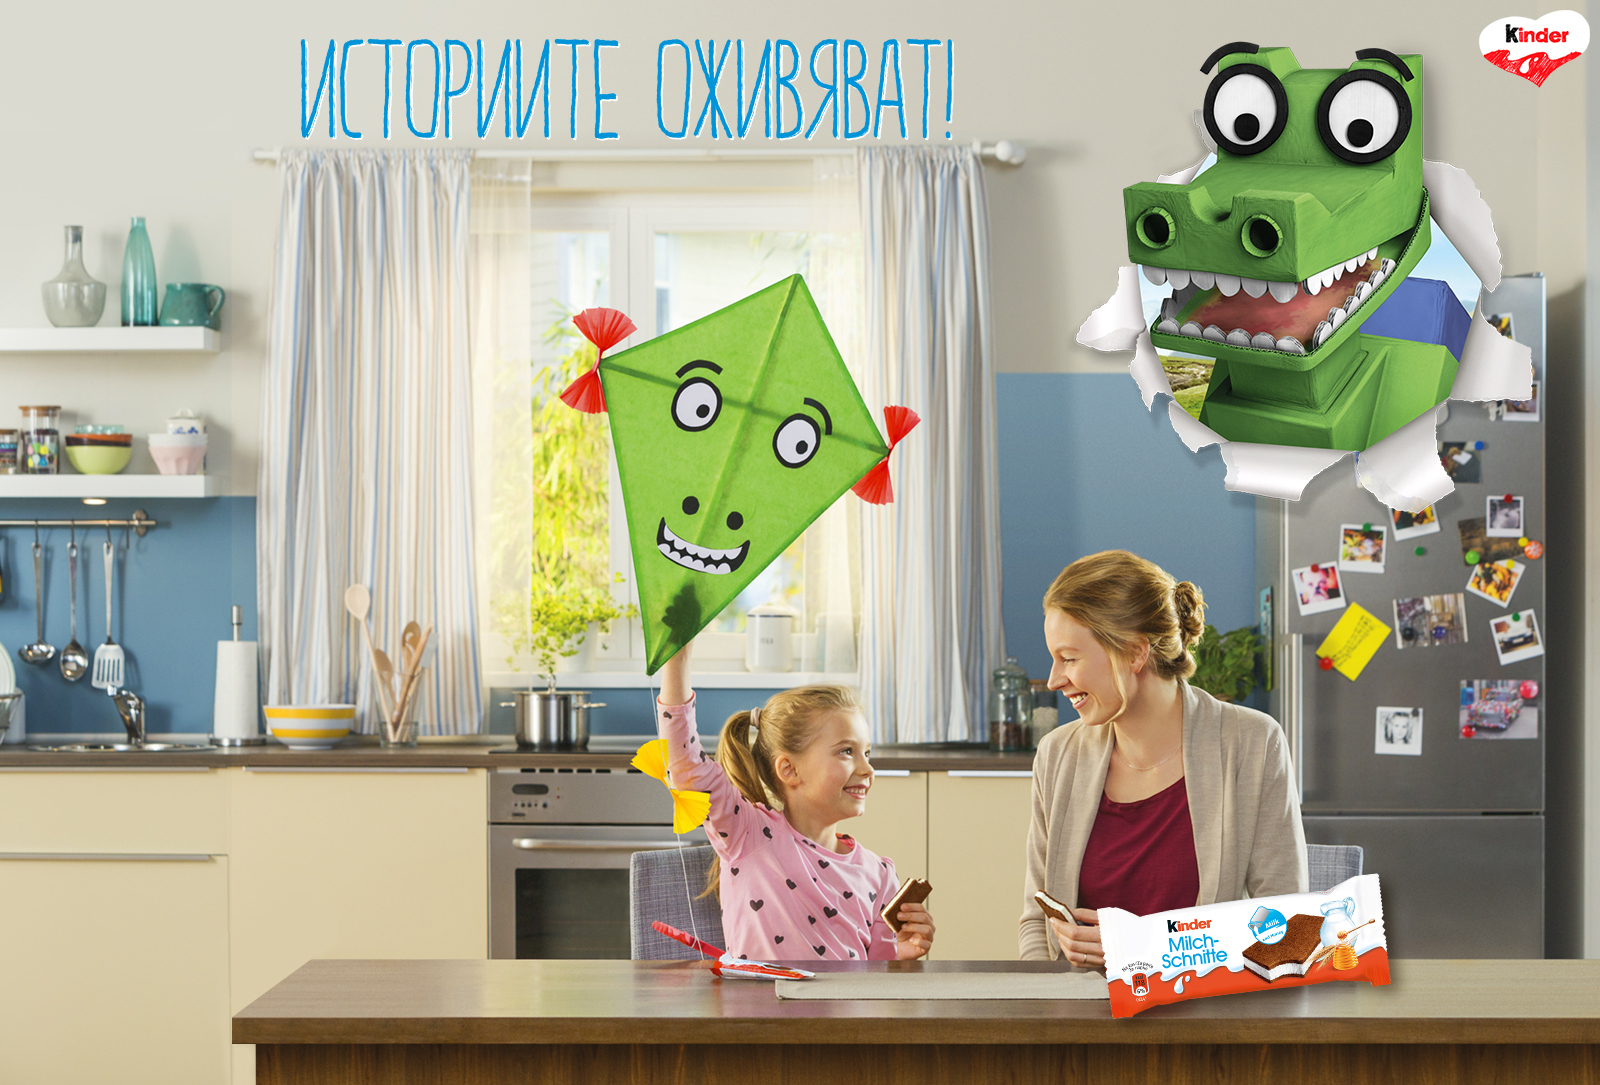
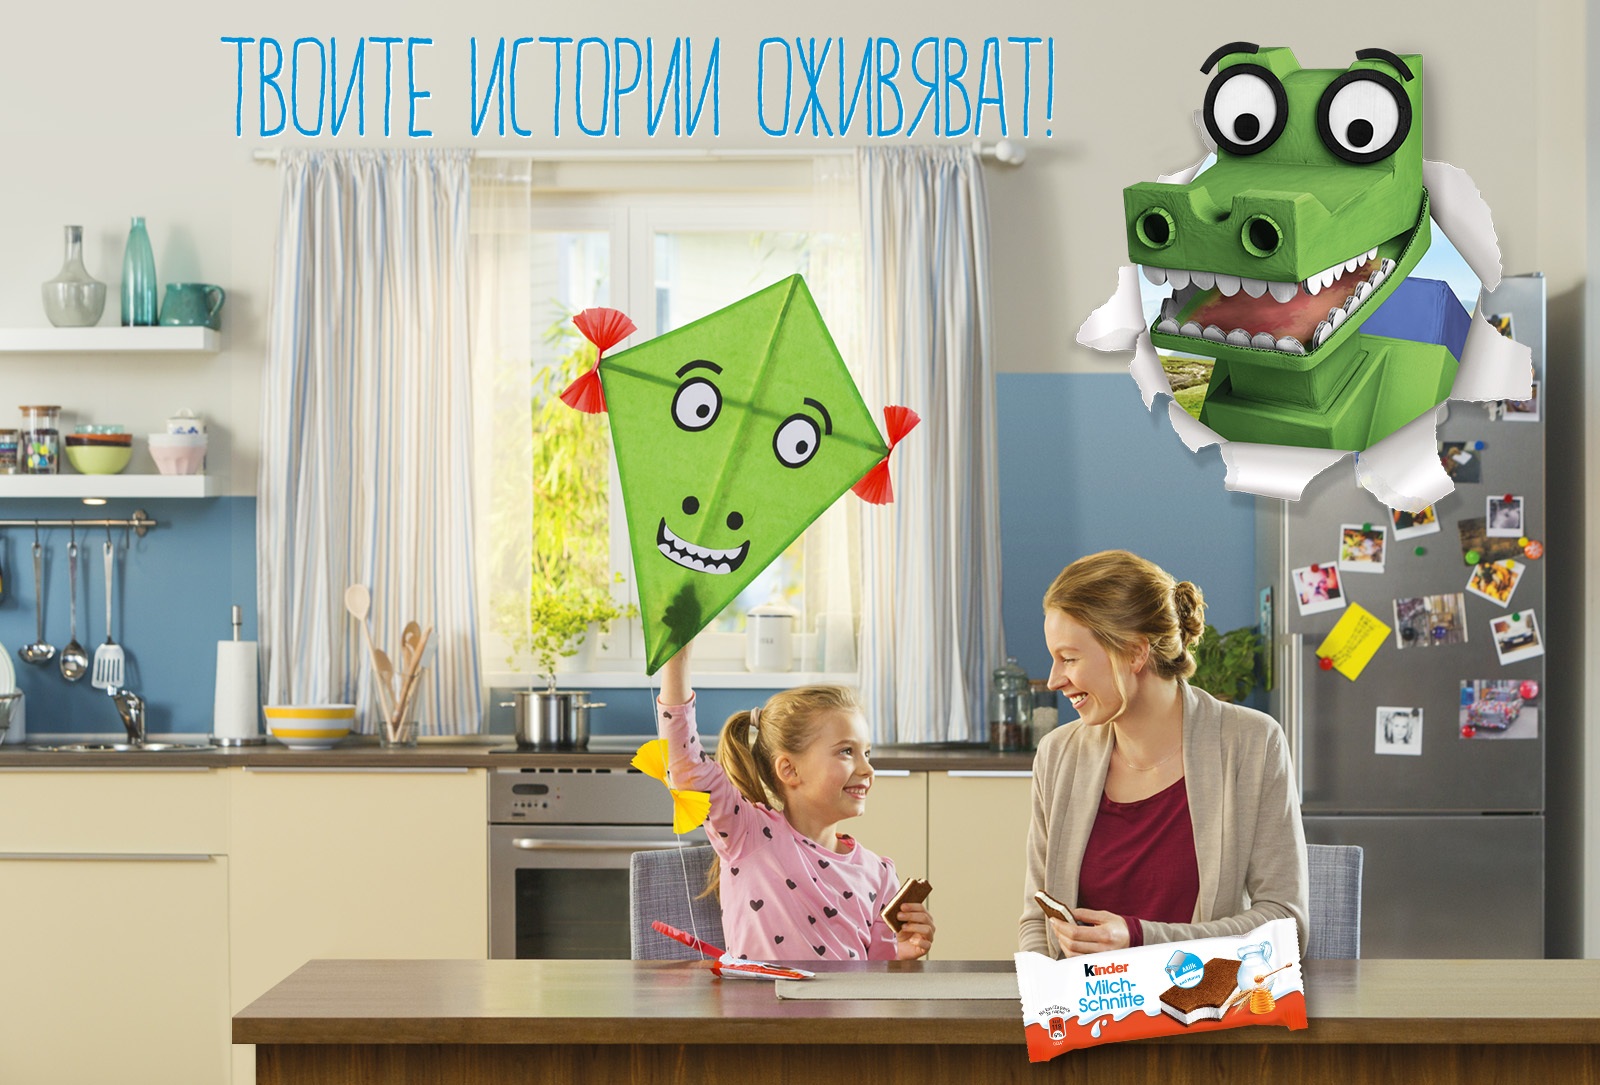
Updated index page view

Changed region(s): [[0.125, 0.0304, 0.6562, 0.1521], [0.625, 0.7908, 0.875, 0.9733], [0.9062, 0.0, 1.0, 0.0912]]

diff --git a/KinderFirst/Content/Site.css b/KinderFirst/Content/Site.css
@@ -118,13 +118,24 @@ ul.nav li.dropdown:hover > ul.dropdown-menu {
     display: none;
 }
 
+.index-heading {
+    position: relative;
+    font-family: "A.C.M.E Bold";
+    color: #e74010;
+    text-align: center;
+    z-index: 100;
+}
+
 .index-body-btns {
     position: absolute;
+    display: table;
+    text-align: center;
     height: 75%;
     width: 27%;
     bottom: 0%;
     margin: 5%;
     z-index: 100;
+    vertical-align: middle;
 }
 
 .index-body-white-box {
@@ -137,17 +148,13 @@ ul.nav li.dropdown:hover > ul.dropdown-menu {
 }
 
 .index-btn-play-now {
-    font-family: "A.C.M.E";
+    position: relative;
+    font-family: "A.C.M.E Bold";
     font-size: 30px;
     color: white;
     background-color: #e74010;
-    position: absolute;
-    width: 60%;
-    top: 20%;
-    left: 0;
-    right: 0;
-    margin-left: auto;
-    margin-right: auto;
+    padding: 16px;
+    margin: 2%;
     border-radius: 15px;
     z-index: 100;
 }
@@ -156,14 +163,29 @@ ul.nav li.dropdown:hover > ul.dropdown-menu {
         color: white;
     }
 
-.index-btn-reward {
-    position: absolute;
-    max-width: 65%;
-    bottom: 6%;
-    left: 0;
-    right: 0;
+.index-image-text{
+    position:relative;
+    margin-top: 8%;
     margin-left: auto;
     margin-right: auto;
+    max-width: 80%;
+    z-index: 100;
+}
+
+.index-btn-play{
+    position:relative;
+    margin-top: 8%;
+    margin-left: auto;
+    margin-right: auto;
+    max-width: 80%;
+    z-index: 100;
+}
+
+.index-btn-reward {
+    display: inline-block;
+    position: relative;
+    max-width: 65%;
+    margin: 8%;
     z-index: 100;
 }
 

diff --git a/KinderFirst/Global.asax.cs b/KinderFirst/Global.asax.cs
@@ -17,8 +17,8 @@ namespace KinderFirst
             FilterConfig.RegisterGlobalFilters(GlobalFilters.Filters);
             RouteConfig.RegisterRoutes(RouteTable.Routes);
             BundleConfig.RegisterBundles(BundleTable.Bundles);
-            DocumentDBRepository<GalleryItem>.Initialize();
-            DocumentDBRepository<IpItem>.Initialize();
+            //DocumentDBRepository<GalleryItem>.Initialize();
+            //DocumentDBRepository<IpItem>.Initialize();
         }
     }
 }
